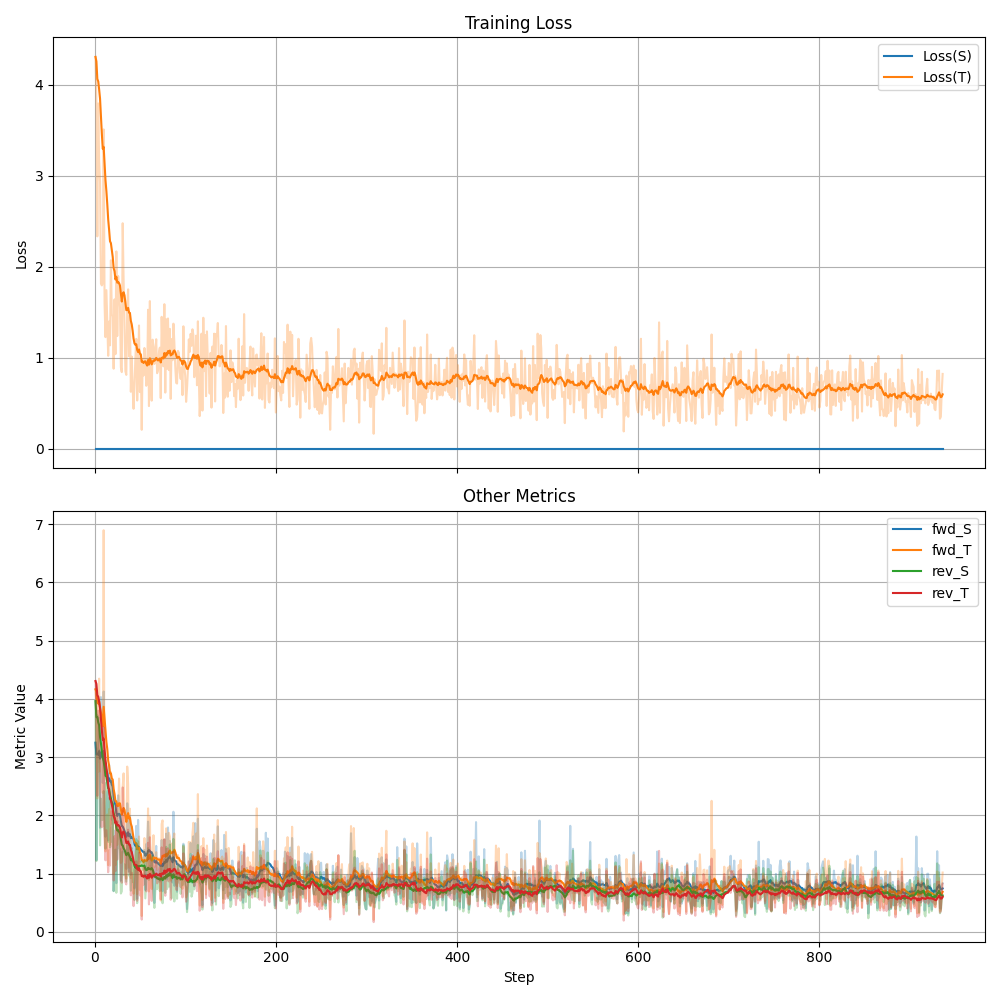
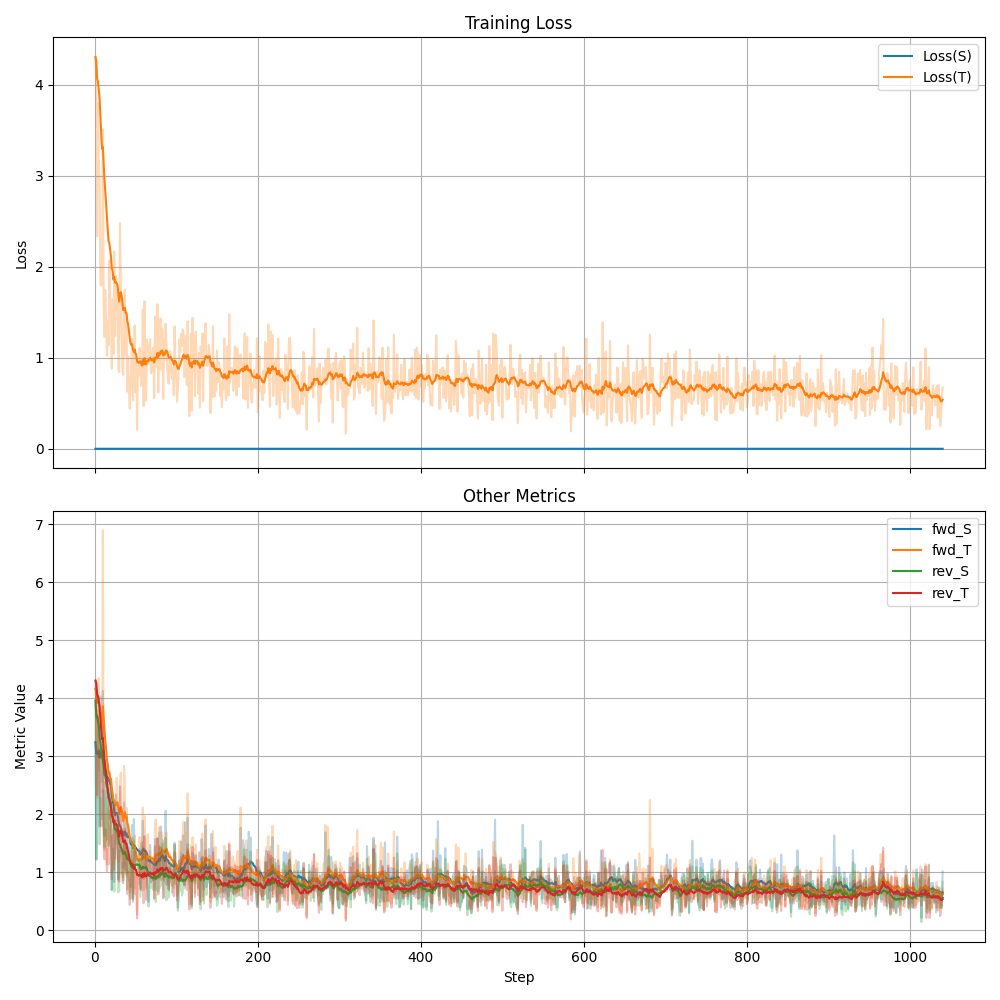
Add README with distillation results and update loss logs for gpt2-large

diff --git a/checkpoints/dolly/gpt2-large/dolly_en/README.md b/checkpoints/dolly/gpt2-large/dolly_en/README.md
@@ -1,0 +1,34 @@
+# Distillation Results (gpt2-large student, gpt2-xl teacher)
+
+| Method | Epoch | dolly_en | mlqa_en | self_instruct_en | vicuna_gpt4_en |
+|---|---|---|---|---|---|
+| Teacher | 6 | 0.3100 | 0.4178 | 0.1625 | 0.1046 |
+| SFT | 9 | 0.2959 | 0.4130 | 0.1533 | 0.1129 |
+| KD_FKL | 1 | 0.2936 | 0.4201 | 0.1469 | 0.1139 |
+| KD_RKL | 5 | 0.2986 | 0.4215 | 0.1501 | 0.1222 |
+| OD_FKL | 3 | 0.3020 | 0.4332 | 0.1532 | 0.1123 |
+| OD_RKL | 9 | 0.3050 | 0.4383 | 0.1498 | 0.1206 |
+
+# Distillation Results (gpt2-large student, gpt2-medium teacher)
+
+| Method | Epoch | dolly_en | mlqa_en | self_instruct_en | vicuna_gpt4_en |
+|---|---|---|---|---|---|
+| Teacher | 8 | 0.2689 | 0.3359 | 0.1250 | 0.0967 |
+| SFT | 9 | 0.2959 | 0.4130 | 0.1533 | 0.1129 |
+| KD_FKL | 5 | 0.2774 | 0.3793 | 0.1181 | 0.1065 |
+| KD_RKL | 3 | 0.2837 | 0.3907 | 0.1371 | 0.1049 |
+| OD_FKL | 8 | 0.2829 | 0.3769 | 0.1268 | 0.1004 |
+| OD_RKL | 3 | 0.2874 | 0.3734 | 0.1393 | 0.1008 |
+
+# Distillation Results (gpt2-large student, gpt2 teacher)
+
+| Method | Epoch | dolly_en | mlqa_en | self_instruct_en | vicuna_gpt4_en |
+|---|---|---|---|---|---|
+| Teacher | 9 | 0.2373 | 0.2942 | 0.1001 | 0.1011 |
+| SFT | 9 | 0.2959 | 0.4130 | 0.1533 | 0.1129 |
+| KD_FKL | 3 | 0.2595 | 0.3384 | 0.1139 | 0.0958 |
+| KD_RKL | 1 | 0.2631 | 0.3610 | 0.1207 | 0.1098 |
+| OD_FKL | 1 | 0.2694 | 0.3639 | 0.1231 | 0.1051 |
+| OD_RKL | 6 | 0.2745 | 0.3373 | 0.1204 | 0.0971 |
+
+
